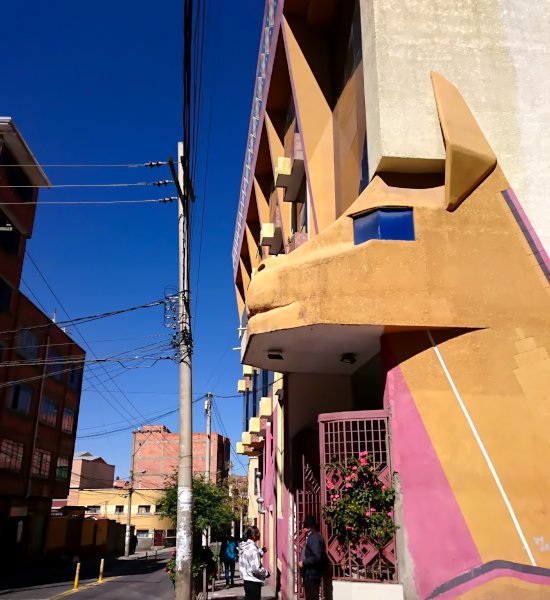
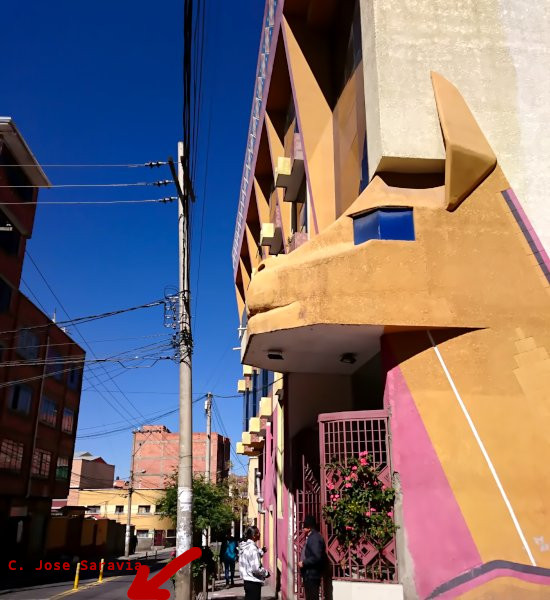
actualizar detalles de como llegar

Changed region(s): [[0.0618, 0.9, 0.3709, 1.0], [0.0, 0.93, 0.0309, 0.96]]

diff --git a/content/ubicacion/index.md b/content/ubicacion/index.md
@@ -4,11 +4,27 @@ title = "Ubicación"
 
 ## Sede: Centro Cultural "Dragón Wari"
 
-<iframe style="width: 100%; height: 500px;" frameborder="0" scrolling="no" marginheight="0" marginwidth="0" src="https://www.openstreetmap.org/export/embed.html?bbox=-68.14277529716493%2C-16.510308576790766%2C-68.13978195190431%2C-16.508747598462378&amp;layer=mapnik&amp;marker=-16.509526803388088%2C-68.1412786245346" style="border: 1px solid black"></iframe><br/><small><a href="https://www.openstreetmap.org/?mlat=-16.50953&amp;mlon=-68.14128#map=19/-16.50953/-68.14128">Ver mapa más grande</a></small>
+El Centro Cultural "Dragón Wari" está ubicado en la esquina de las calles José Saravia y Pioneros de Rochdale, a dos cuadras del Estadio Bolívar (Tembladerani) y la Av. Landaeta cerca al Ex. Cine Ebro.
+
+<a href="https://www.openstreetmap.org/export/embed.html?bbox=-68.14277529716493%2C-16.510308576790766%2C-68.13978195190431%2C-16.508747598462378&amp;layer=mapnik&amp;marker=-16.509526803388088%2C-68.1412786245346" target="_blank">MAPA</a>
+
+## De donde tomar minibuses
+
+Para llegar al <b>Centro Cultural Dragon Wari</b> deben tomar los minibuses que van hacia el Estadio Bolivar subiendo por la Av. Landaeta. Estos minibuses se encuentran parados al frente de la <b>Plaza del Estudiante</b> (iniciando <b>El Prado</b>), el pasaje cuesta Bs. 2 y tarda <b>7min</b> aprox. en llegar al Estadio Bolivar. Hay que bajarse en el Estadio Bolivar en el semáforo e ir dos cuadras hacia la derecha por la calle José Saravia. Igual pueden ver el <a href="https://www.openstreetmap.org/export/embed.html?bbox=-68.14277529716493%2C-16.510308576790766%2C-68.13978195190431%2C-16.508747598462378&amp;layer=mapnik&amp;marker=-16.509526803388088%2C-68.1412786245346" target="_blank">mapa</a> y aprovechar con el GPS de su celuar :).
+
+Donde tomar los minibuses:
+<img style="display: block; margin: 0 auto;" src="/img/minibuses1.jpg" />
+<img style="display: block; margin: 0 auto;" src="/img/minibuses2.jpg" />
+
+Donde bajarse:
+
+<img style="display: block; margin: 0 auto;" src="/img/tembladerani0.jpg" />
+<img style="display: block; margin: 0 auto;" src="/img/tembladerani1.jpg" />
 
 
-El Centro Cultural "Dragón Wari" está ubicado en la esquina de las calles José Saravia y Pioneros de Rochdale, a dos cuadras del Estadio Bolívar (Tembladerani) y la Av. Landaeta.
-
-Para personas que viajen a La Paz para asistir al evento, pronto anunciaremos opciones para la estadía en la ciudad.
 
 <img style="display: block; margin: 0 auto;" src="/img/llama.jpg" alt="Imagen: el Dragón Wari se destaca por una cabeza de llama" />
+
+Mapa:
+
+<iframe style="width: 100%; height: 500px;" frameborder="0" scrolling="no" marginheight="0" marginwidth="0" src="https://www.openstreetmap.org/export/embed.html?bbox=-68.14277529716493%2C-16.510308576790766%2C-68.13978195190431%2C-16.508747598462378&amp;layer=mapnik&amp;marker=-16.509526803388088%2C-68.1412786245346" style="border: 1px solid black"></iframe><br/><small><a href="https://www.openstreetmap.org/?mlat=-16.50953&amp;mlon=-68.14128#map=19/-16.50953/-68.14128">Ver mapa más grande</a></small>
